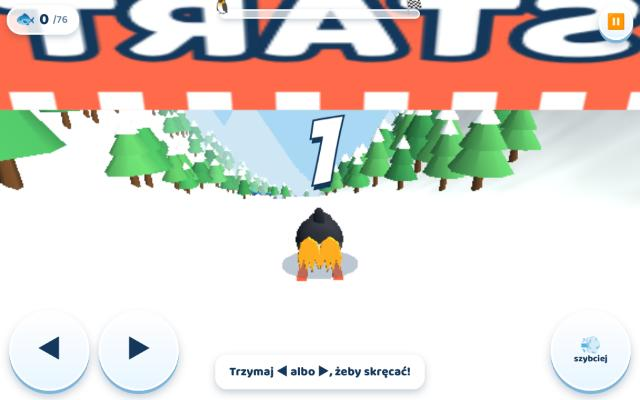
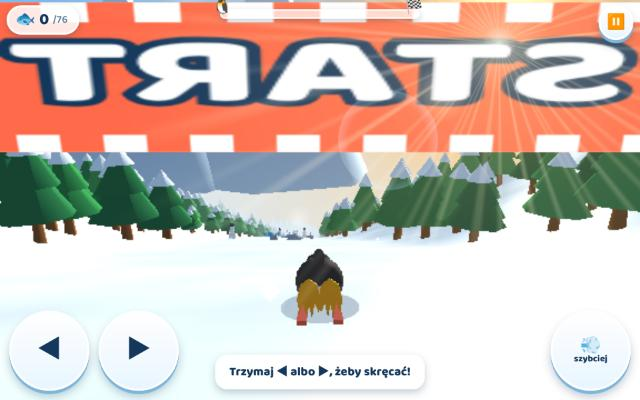
Narty: ładniejsza grafika — słońce, promienie, cienie, lód i migoczący śnieg
Niebo ze słońcem i chmurami (shader), ciepłe niskie światło z długimi cieniami, promienie i flary (nakładka CSS),
półprzezroczyste tafle lodu na trasie (przyspieszają jazdę), migoczący śnieg, puder za nartami, łagodniejsza dolina i góry w oddali.

Claude-Session: https://claude.ai/code/session_01Y3fw4xh2EHoS7fJoc59qhu

diff --git a/narty/game.js b/narty/game.js
@@ -15,15 +15,22 @@ const GL_NAME = (() => { try { const g = document.createElement('canvas').getCon
 const LITE = !Q.has('hq') && (Q.has('lite') || /swiftshader|llvmpipe|software/i.test(GL_NAME));
 const renderer = new T.WebGLRenderer({ canvas: $('c'), antialias: !LITE, powerPreference: 'high-performance' });
 renderer.setPixelRatio(LITE ? (IS_TEST ? 1 : .6) : Math.min(devicePixelRatio || 1, 1.75));
-const scene = new T.Scene(); scene.background = new T.Color(0xa9d8f5); scene.fog = new T.Fog(0xcfe6f5, 60, 240);
-const camera = new T.PerspectiveCamera(58, 1, .3, 700); scene.add(camera);
-scene.add(new T.HemisphereLight(0xe4f1ff, 0x8fa9cc, .62));
-const sunL = new T.DirectionalLight(0xfff0d0, 1.1); sunL.position.set(-40, 80, -30); scene.add(sunL);
-const resize = fitView(renderer, camera); addEventListener('resize', resize); resize();
-ZOO.cfg.cast = false;
-particlesInit(scene, LITE ? 260 : 700);
 const V3 = (x = 0, y = 0, z = 0) => new T.Vector3(x, y, z);
 const dummy = new T.Object3D();
+const SUN_EL = 9*PI/180, SUN_AZ = -24*PI/180, SUN_D = V3(Math.sin(SUN_AZ)*Math.cos(SUN_EL), Math.sin(SUN_EL), Math.cos(SUN_AZ)*Math.cos(SUN_EL));   // słońce nisko, z przodu po lewej
+const scene = new T.Scene(); scene.background = new T.Color(0xdbebf5); scene.fog = new T.Fog(0xdbebf5, 70, 270);
+const camera = new T.PerspectiveCamera(58, 1, .3, 760); scene.add(camera);
+scene.add(new T.HemisphereLight(0xa9d2ff, 0xe8f0f8, .72));                       // niebo chłodne, odbicie od śniegu jasne
+const sunL = new T.DirectionalLight(0xffe3b5, 1.35); scene.add(sunL, sunL.target);   // słońce ciepłe
+renderer.shadowMap.enabled = !LITE; renderer.shadowMap.type = T.PCFSoftShadowMap; sunL.castShadow = !LITE;
+Object.assign(sunL.shadow.camera, { left: -38, right: 38, top: 38, bottom: -38, near: 1, far: 260 }); sunL.shadow.mapSize.set(2048, 2048); sunL.shadow.bias = -.0007; sunL.shadow.normalBias = .12;
+const dome = skyDome(SUN_D, 600); scene.add(dome);
+iceInit(skyEnv(renderer, SUN_D)); sunFxInit();
+const uScale = { value: 300 };                                                   // skala punktów (połowa wysokości bufora)
+const fitCam = fitView(renderer, camera), resize = () => { fitCam(); uScale.value = innerHeight*renderer.getPixelRatio()*.5; }; addEventListener('resize', resize); resize();
+ZOO.cfg.cast = !LITE;
+particlesInit(scene, LITE ? 260 : 700);
+const powder = powderInit(scene, LITE ? 50 : 150, uScale);
 
 /* =====================================================================
    STAN
@@ -50,7 +57,7 @@ const shadow = new T.Mesh(new T.CircleGeometry(1, 18).rotateX(-PI/2), new T.Mesh
 /* =====================================================================
    ŚWIAT: teren, drzewa, kamienie, bałwany, skocznie, rybki, łuki, góry
    ===================================================================== */
-let WG = null, fishB = null, fishT = null, snowmen = [], debris = [], mCount = 0;
+let glit = null, WG = null, fishB = null, fishT = null, snowmen = [], debris = [], mCount = 0;
 const mTrunk = lam(0x7a4e2c), mLeaf = lam(0xffffff), mSnowW = lam(0xf4fbff), mRock = lam(0x8d9bb0, { flatShading: true });
 const TREE_COL = [0x2f7d46, 0x3a8f4f, 0x2a6e44, 0x4a9a55].map(c => new T.Color(c));
 const GEO = {
@@ -60,21 +67,21 @@ const GEO = {
 };
 
 function terrainMesh() {
-  const s0 = -40, s1 = CRS.L + 90, st = COURSE.STEP, nr = Math.round((s1 - s0)/st) + 1, nc = Math.round(COURSE.HALF*2/st) + 1;
+  const s0 = -40, s1 = CRS.L + 140, st = COURSE.STEP, nr = Math.round((s1 - s0)/st) + 1, nc = Math.round(COURSE.HALF*2/st) + 1;
   const pos = new Float32Array(nr*nc*3), col = new Float32Array(nr*nc*3), idx = [];
   for (let i = 0; i < nr; i++) { const s = s0 + i*st, cx = centerX(s);
     for (let j = 0; j < nc; j++) { const dx = -COURSE.HALF + j*st, x = cx + dx, k = (i*nc + j)*3, e = Math.max(0, Math.abs(dx) - COURSE.W);
       pos[k] = x; pos[k + 1] = terrainY(s, x); pos[k + 2] = s;
-      const n = .5 + .5*Math.sin(s*.9 + x*.7)*Math.sin(s*.37 - x*.5), c = .93 + .07*n - Math.min(.1, e*.006);
-      col[k] = c*.95; col[k + 1] = c*.98; col[k + 2] = c; } }
+      const n = .5 + .5*Math.sin(s*.9 + x*.7)*Math.sin(s*.37 - x*.5), c = .92 + .08*n - Math.min(.07, e*.004), ice = Math.abs(dx) < COURSE.W ? 0 : Math.min(1, e*.1);
+      col[k] = c*(.97 - ice*.05); col[k + 1] = c*(.985 - ice*.02); col[k + 2] = c*(1 + ice*.0); } }
   for (let i = 0; i < nr - 1; i++) for (let j = 0; j < nc - 1; j++) { const a = i*nc + j, b = a + 1, c = a + nc, d = c + 1; idx.push(a, c, b, b, c, d); }
   const g = new T.BufferGeometry(); g.setAttribute('position', new T.BufferAttribute(pos, 3)); g.setAttribute('color', new T.BufferAttribute(col, 3)); g.setIndex(idx); g.computeVertexNormals();
-  return new T.Mesh(g, new T.MeshLambertMaterial({ vertexColors: true }));
+  const m = new T.Mesh(g, new T.MeshPhongMaterial({ vertexColors: true, specular: 0x6a6252, shininess: 24 })); m.receiveShadow = true; return m;
 }
 function instanced(geo, mat, list, fn) {
   const m = new T.InstancedMesh(geo, mat, Math.max(1, list.length));
   list.forEach((o, i) => { fn(dummy, o, i, m); dummy.updateMatrix(); m.setMatrixAt(i, dummy.matrix); });
-  m.count = list.length; m.instanceMatrix.needsUpdate = true; m.frustumCulled = false; return m;
+  m.count = list.length; m.instanceMatrix.needsUpdate = true; m.frustumCulled = false; m.castShadow = !LITE; m.receiveShadow = !LITE; return m;
 }
 function addTrees(g) {
   const list = CRS.trees.concat(CRS.obst.filter(o => o.k === 'tree'));
@@ -124,14 +131,19 @@ function buildWorld(sd) {
   for (const f of CRS.fish) f.y = groundY(f.s, f.x) + f.up;
   fishB = new T.InstancedMesh(GEO.fishB, lam(0x3aa8ff), CRS.fish.length); fishT = new T.InstancedMesh(GEO.fishT, lam(0xff9f1c), CRS.fish.length);
   fishB.frustumCulled = fishT.frustumCulled = false; WG.add(fishB, fishT);
-  // góry w oddali
-  const mt = [], L = CRS.L; for (let s = -60; s < L + 260; s += 85) for (const k of [-1, 1]) mt.push({ s, x: centerX(Math.min(s, L)) + k*(115 + rr(0, 40)), sc: rr(.8, 1.4), a: 0 });
-  for (let x = -160; x <= 160; x += 80) mt.push({ s: L + 300, x: centerX(L) + x, sc: 1.5, a: 0 });
-  WG.add(instanced(new T.ConeGeometry(70, 110, 7).translate(0, 55, 0), lam(0xd5e5f3, { flatShading: true }), mt, (d, o) => { d.position.set(o.x, baseAt(Math.min(o.s, L)) + 8, o.s); d.rotation.set(0, o.sc*3, 0); d.scale.set(o.sc, o.sc, o.sc); }));
+  // lód i migotanie śniegu
+  for (const p of CRS.ice) WG.add(iceMesh(p));
+  glit = glitterPoints(LITE ? 700 : 2600, uScale); WG.add(glit);
   updFish(0); hud();
 }
+const FAR = new T.Group(); scene.add(FAR);
+{ const cols = [], g = new T.ConeGeometry(95, 170, 7, 3).translate(0, 85, 0), pa = g.attributes.position, fc = new T.Color(0xdbebf5), mid = new T.Color(0xaec4de), top = new T.Color(0xffffff);
+  for (let i = 0; i < pa.count; i++) { const h = pa.getY(i)/170, c = h < .3 ? fc.clone().lerp(mid, h/.3) : mid.clone().lerp(top, Math.min(1, (h - .3)/.22)); cols.push(c.r, c.g, c.b); }
+  g.setAttribute('color', new T.Float32BufferAttribute(cols, 3));
+  const m = new T.MeshLambertMaterial({ vertexColors: true, flatShading: true, fog: false });
+  [-165, -135, -104, -78, 7, 26, 47, 70, 94, 118, 145, 172].forEach((az, i) => { const a = az*PI/180, h = 1 + ((i*37) % 60)/100, mt = new T.Mesh(g, m); mt.position.set(Math.sin(a)*400, 0, Math.cos(a)*400); mt.scale.set(1.1, h, 1.1); mt.rotation.y = i; FAR.add(mt); }); }
 function updFish(t) {
-  CRS.fish.forEach((f, i) => { const k = f.got ? 0 : 1; dummy.position.set(f.x, f.y + Math.sin(t*3 + i)*.12, f.s); dummy.rotation.set(0, t*1.8 + i, Math.sin(t*2 + i)*.15); dummy.scale.setScalar(k*1.5); dummy.updateMatrix(); fishB.setMatrixAt(i, dummy.matrix); fishT.setMatrixAt(i, dummy.matrix); });
+  CRS.fish.forEach((f, i) => { const k = f.got ? 0 : 1; dummy.position.set(f.x, f.y + Math.sin(t*3 + i)*.12, f.s); dummy.rotation.set(0, t*1.8 + i, Math.sin(t*2 + i)*.15); dummy.scale.setScalar(k*1.25); dummy.updateMatrix(); fishB.setMatrixAt(i, dummy.matrix); fishT.setMatrixAt(i, dummy.matrix); });
   fishB.instanceMatrix.needsUpdate = fishT.instanceMatrix.needsUpdate = true;
 }
 
@@ -187,7 +199,8 @@ function resetPlayer() {
   Object.assign(P, { s: 4, x: centerX(4), psi: 0, v: 0, vy: 0, air: false, airT: 0, trick: false, flip: 0, rampT: 0, hit: 0, inv: 0, pitch: 0, roll: 0, camYaw: 0 });
   P.y = groundY(P.s, P.x); S.got = 0; S.hits = 0; S.tricks = 0; S.runT = 0; S.finT = 0; poseRig(0); S.camSnap = true;
 }
-function puff(x, y, z, n, sp, r = 1, g = 1, b = 1) { for (let i = 0; i < n; i++) emit(x + rr(-.4, .4), y + .2, z + rr(-.4, .4), rr(-sp, sp), rr(sp*.4, sp*1.2), rr(-sp, sp), rr(.4, .9), r, g, b, 7); }
+function puff(x, y, z, n, sp, r = 1, g = 1, b = 1) { for (let i = 0; i < n; i++) emit(x + rr(-.4, .4), y + .2, z + rr(-.4, .4), rr(-sp, sp), rr(sp*.4, sp*1.2), rr(-sp, sp), rr(.4, .9), r, g, b, 7);
+  if (r + g + b > 2.5) for (let i = 0; i < Math.ceil(n/3); i++) powder.emit(x + rr(-.5, .5), y + .3, z + rr(-.5, .5), rr(-sp, sp)*.6, rr(.4, sp*.5), rr(-sp, sp)*.6, rr(.8, 1.4), rr(1.4, 2.6)); }
 function hitObst(o) {
   if (o.k === 'snowman') { o.hit = true; S.hits++; P.v *= .85; P.inv = .35; snd.smash(); puff(o.x, groundY(o.s, o.x) + 1.4, o.s, 24, 3.4);
     for (const m of o.g.children.slice()) { scene.attach(m); debris.push({ m, vx: (m.position.x - P.x)*1.2 + rr(-1.5, 1.5), vy: rr(3, 7), vz: rr(2, 6) + P.v*.25, spin: rr(-6, 6), t: 2.2 }); }
@@ -203,13 +216,16 @@ function physics(dt) {
   const inp = count ? { u: 0, sy: 0 } : fin ? { u: 0, sy: -1 } : readInput();
   P.hit = Math.max(0, P.hit - dt); P.inv = Math.max(0, P.inv - dt); P.rampT = Math.max(0, P.rampT - dt);
   let vt = inp.sy >= 0 ? lerp(BASE_V, MAX_V, inp.sy) : lerp(BASE_V, MIN_V, -inp.sy); if (count) vt = 0; if (fin) vt = 0;
+  const onIce = !P.air && !count && iceAt(P.s, P.x); if (onIce) vt += 5;
+  if (onIce && !P.onIce) { tone(1500, .22, 'sine', .14, 2400); burst(5000, .25, .12, 0, 2); if (!S.iceSeen) { S.iceSeen = true; toast('Lód! Ale się ślizga!', 2400); lektor('Lód!'); } }
+  P.onIce = onIce;
   if (P.air) vt = Math.max(vt, P.v*.97);
   P.v += (vt - P.v)*Math.min(1, dt*(count ? 9 : vt > P.v ? .9 : fin ? 1.1 : 2.2));
   if (count) P.v = 0;
   if (run && P.v < 5) P.v = 5;
   const cx = centerX(P.s), dx = P.x - cx; let psiT = inp.u*MAX_PSI*(P.hit > 0 ? .3 : 1);
   if (Math.abs(dx) > 9 && !fin) psiT -= Math.sign(dx)*(Math.abs(dx) - 9)*.12;
-  P.psi += (psiT - P.psi)*Math.min(1, dt*(P.air ? 2 : 5.5));
+  P.psi += (psiT - P.psi)*Math.min(1, dt*(P.air ? 2 : onIce ? 2.6 : 5.5));
   P.x += P.v*Math.sin(P.psi)*dt; P.s += P.v*Math.cos(P.psi)*dt;
   const ex = P.x - centerX(P.s); if (Math.abs(ex) > 14.5) { P.x = centerX(P.s) + Math.sign(ex)*14.5; P.psi -= Math.sign(ex)*.05; P.v *= .995; }
   if (dt > 1e-4) {
@@ -227,8 +243,10 @@ function physics(dt) {
   if (run || fin) for (const f of CRS.fish) { if (f.got || Math.abs(f.s - P.s) > 2) continue; if (Math.hypot(f.s - P.s, f.x - P.x) < 1.7 && Math.abs(f.y - (P.y + .5)) < 1.9) takeFish(f); }
   if (run) { S.runT += dt; if (P.s >= CRS.goals.finish) finishRun(); }
   if (fin) { S.finT += dt; if (P.v < .6 || S.finT > 4.5) endRun(); }
-  // ślad za pingwinem
-  if (!P.air && P.v > 3 && (run || fin)) { const n = Math.min(3, Math.ceil(P.v*dt*1.4 + Math.random())); for (let i = 0; i < n; i++) emit(P.x - Math.sin(P.psi)*1.2 + rr(-.5, .5), P.y + .15, P.s - Math.cos(P.psi)*1.2, rr(-1.2, 1.2) - Math.sin(P.psi)*P.v*.12, rr(.8, 2.4), rr(-1, 1) - Math.cos(P.psi)*P.v*.12, rr(.35, .7), 1, 1, 1, 6); }
+  // puder za nartami (duże, miękkie, półprzezroczyste kłęby) + drobne iskierki; na lodzie niebieskie iskry
+  if (!P.air && P.v > 3 && (run || fin)) { const k = P.v/MAX_V, n = Math.min(2, Math.ceil(P.v*dt*.5 + Math.random()*.6)), bx = -Math.sin(P.psi), bz = -Math.cos(P.psi);
+    for (let i = 0; i < n; i++) powder.emit(P.x + bx*1.1 + rr(-.5, .5), P.y + .2, P.s + bz*1.1, rr(-1.6, 1.6) + bx*P.v*.1, rr(.4, 1.4)*(.6 + k), rr(-1, 1) + bz*P.v*.1, rr(.7, 1.3), rr(1.1, 2.2)*(.7 + k*.6));
+    if (onIce) for (let i = 0; i < 2; i++) emit(P.x + rr(-.6, .6), P.y + .2, P.s + rr(-.6, .6), rr(-2, 2), rr(1, 3), rr(-2, 2), rr(.4, .8), .7, .9, 1, 5); }
 }
 function poseRig(dt) {
   const f = V3(Math.sin(P.psi), 0, Math.cos(P.psi)), r = V3(Math.cos(P.psi), 0, -Math.sin(P.psi)), d = 1.1;
@@ -253,13 +271,13 @@ function updDebris(dt) { for (let i = debris.length - 1; i >= 0; i--) { const d 
    KAMERA
    ===================================================================== */
 function updCam(dt) {
-  if (S.mode === 'menu') { const a = S.t*.3, tx = P.x + Math.sin(a)*3.4 + 1.2, ty = P.y + 1.6, tz = P.s + 6.6 + Math.cos(a)*.6; camera.position.set(tx, Math.max(ty, terrainY(tz, tx) + 1), tz); camera.lookAt(P.x, P.y + .8, P.s); camera.fov = 52; camera.updateProjectionMatrix(); return; }
+  if (S.mode === 'menu') { const a = S.t*.25, tx = P.x + 5.5 + Math.sin(a)*2, tz = P.s + 11 + Math.cos(a)*1.2, ty = P.y + 2.4; camera.position.set(tx, Math.max(ty, terrainY(tz, tx) + 1.6), tz); camera.lookAt(P.x - 1.2, P.y + 1.6, P.s); camera.fov = 52; camera.updateProjectionMatrix(); return; }
   P.camYaw += (P.psi*.5 - P.camYaw)*Math.min(1, dt*2.5);
   const fx = Math.sin(P.camYaw), fz = Math.cos(P.camYaw), back = 6.6, tx = P.x - fx*back, tz = P.s - fz*back, ty = P.y + 2.9;
   const k = S.camSnap ? 1 : 1 - Math.exp(-dt*5), ky = S.camSnap ? 1 : 1 - Math.exp(-dt*3);
   camera.position.x += (tx - camera.position.x)*k; camera.position.z += (tz - camera.position.z)*k; camera.position.y += (ty - camera.position.y)*ky;
   camera.position.y = Math.max(camera.position.y, terrainY(camera.position.z, camera.position.x) + 1.7);
-  const lx = P.x + fx*9, lz = P.s + fz*9, ly = groundY(lz, lx) + 1.2;
+  const lx = P.x + fx*10, lz = P.s + fz*10, ly = (groundY(lz, lx) + P.y)*.5 + 1.5;
   camera.lookAt(lx, ly, lz); S.camSnap = false;
   const fov = 56 + (P.v/MAX_V)*10 + (P.air ? 3 : 0); if (Math.abs(camera.fov - fov) > .05) { camera.fov += (fov - camera.fov)*Math.min(1, dt*3); camera.updateProjectionMatrix(); }
 }
@@ -273,7 +291,9 @@ function update(dt) {
     if (n !== S.cdN) { S.cdN = n; if (n > 0) { showBig(String(n)); snd.tick(false); } else { showBig('Jazda!'); snd.tick(true); lektor('Jazda!', { pilne: true }); } }
     if (S.cd <= .15) { S.mode = 'run'; tilt.cal = true; } }
   if (S.mode === 'count' || S.mode === 'run' || S.mode === 'finish') { physics(dt); updDebris(dt); }
-  poseRig(dt); updFish(S.t); updateParticles(dt); windUpd(); updCam(dt);
+  poseRig(dt); updFish(S.t); updateParticles(dt); powder.update(dt); windUpd(); updCam(dt);
+  dome.position.copy(camera.position); dome.material.uniforms.uTime.value = S.t; FAR.position.set(camera.position.x, camera.position.y - 62, camera.position.z); if (glit) glit.material.uniforms.uTime.value = S.t;
+  sunL.position.set(P.x + SUN_D.x*140, P.y + SUN_D.y*140, P.s + SUN_D.z*140); sunL.target.position.set(P.x, P.y, P.s); sunL.target.updateMatrixWorld(); sunFxUpdate(camera, SUN_D);
   const fr = clamp(P.s/CRS.goals.finish, 0, 1); $('progI').style.left = fr*100 + '%';
 }
 function finishRun() { S.mode = 'finish'; S.finT = 0; snd.fin(); showBig('Meta!'); lektor('Meta! Brawo!', { pilne: true }); for (let i = 0; i < 40; i++) emit(P.x + rr(-5, 5), P.y + rr(2, 6), P.s + rr(-2, 4), rr(-2, 2), rr(1, 4), rr(-2, 2), rr(1, 2), Math.random(), Math.random(), Math.random(), 2); }

diff --git a/narty/fx.js b/narty/fx.js
@@ -1,0 +1,108 @@
+'use strict';
+// Narty — efekty obrazu: niebo ze słońcem i chmurami (shader), przezroczysty lód na trasie, migoczący śnieg, pudrowy śnieg zza nart,
+// promienie słońca i flary (nakładka CSS #sunfx). Same funkcje (bez sceny przy ładowaniu); gra woła je z game.js.
+// wymaga: lib/3d/three.js (T, PI), lib/common/math.js (clamp), slope.js (groundY, CRS), lib/common/random.js (rr, rnd)
+
+/* ---------- niebo: gradient, słońce z poświatą, chmury ---------- */
+const SKY_VS = 'varying vec3 vDir; void main(){ vDir = position; gl_Position = projectionMatrix*modelViewMatrix*vec4(position, 1.0); }';
+const SKY_FS = `uniform vec3 uSun; uniform float uTime; varying vec3 vDir;
+float hash(vec2 p){ return fract(sin(dot(p, vec2(127.1, 311.7)))*43758.5453); }
+float noise(vec2 p){ vec2 i = floor(p), f = fract(p); f = f*f*(3.0 - 2.0*f);
+  return mix(mix(hash(i), hash(i + vec2(1.0, 0.0)), f.x), mix(hash(i + vec2(0.0, 1.0)), hash(i + vec2(1.0, 1.0)), f.x), f.y); }
+float fbm(vec2 p){ float a = 0.5, s = 0.0; for (int i = 0; i < 4; i++) { s += a*noise(p); p *= 2.03; a *= 0.5; } return s; }
+void main(){
+  vec3 d = normalize(vDir); float h = d.y;
+  vec3 hor = vec3(0.86, 0.92, 0.96), mid = vec3(0.50, 0.73, 0.94), top = vec3(0.20, 0.45, 0.82);
+  vec3 c = mix(hor, mid, smoothstep(0.0, 0.22, h)); c = mix(c, top, smoothstep(0.15, 0.85, h)); if (h < 0.0) c = hor;
+  float sd = max(dot(d, uSun), 0.0);
+  c = mix(c, vec3(1.0, 0.74, 0.42), clamp(pow(sd, 5.0)*0.55 + pow(sd, 30.0)*0.5, 0.0, 0.85)); c += vec3(1.0, 0.8, 0.5)*pow(sd, 220.0)*0.9;
+  if (h > 0.02) { vec2 p = d.xz/(h + 0.28)*1.7 + vec2(uTime*0.012, 0.0);
+    float cl = smoothstep(0.52, 0.86, fbm(p))*smoothstep(0.02, 0.24, h);
+    vec3 cc = mix(vec3(0.97, 0.98, 1.0), vec3(1.0, 0.9, 0.74), pow(sd, 5.0)); c = mix(c, cc, cl*0.72); }
+  c = mix(c, vec3(1.0, 0.98, 0.92), smoothstep(0.99962, 0.99986, sd));
+  gl_FragColor = vec4(min(c, vec3(1.0)), 1.0);   // bez wartości > 1 (mapa środowiska jest LDR)
+}`;
+function skyDome(sunDir, radius) {
+  const mat = new T.ShaderMaterial({ side: T.BackSide, depthWrite: false, fog: false, uniforms: { uSun: { value: sunDir }, uTime: { value: 0 } }, vertexShader: SKY_VS, fragmentShader: SKY_FS });
+  const m = new T.Mesh(new T.SphereGeometry(radius, 32, 18), mat); m.renderOrder = -10; m.frustumCulled = false; return m;
+}
+// odbicia nieba na lodzie: jednorazowy rzut kopuły na sześcian (zwykła mapa odbić — bez PMREM, działa na każdym GPU)
+function skyEnv(renderer, sunDir) {
+  const sc = new T.Scene(), mat = new T.ShaderMaterial({ side: T.BackSide, depthWrite: false, uniforms: { uSun: { value: sunDir }, uTime: { value: 8 } }, vertexShader: SKY_VS, fragmentShader: SKY_FS });
+  sc.add(new T.Mesh(new T.SphereGeometry(50, 32, 18), mat));
+  const rt = new T.WebGLCubeRenderTarget(128), cc = new T.CubeCamera(.1, 100, rt); cc.update(renderer, sc); return rt.texture;
+}
+
+/* ---------- lód: półprzezroczysta tafla z pęknięciami i połyskiem (MeshStandard + mapa nieba) ---------- */
+let iceTexC = null;
+function iceTex() {
+  if (iceTexC) return iceTexC;
+  const c = document.createElement('canvas'); c.width = c.height = 256; const g = c.getContext('2d'), R = Math.random;
+  g.beginPath(); for (let k = 0; k <= 56; k++) { const a = k/56*6.2832, r = 108 + 7*Math.sin(a*3 + 1) + 5*Math.sin(a*5 + 2) + R()*3; k ? g.lineTo(128 + Math.cos(a)*r, 128 + Math.sin(a)*r) : g.moveTo(128 + Math.cos(a)*r, 128 + Math.sin(a)*r); } g.closePath();
+  const gr = g.createRadialGradient(104, 100, 8, 128, 128, 116); gr.addColorStop(0, 'rgba(170,228,255,.8)'); gr.addColorStop(.5, 'rgba(105,185,245,.86)'); gr.addColorStop(.88, 'rgba(60,140,225,.92)'); gr.addColorStop(1, 'rgba(225,245,255,.96)');
+  g.fillStyle = gr; g.fill(); g.save(); g.clip();
+  for (let i = 0; i < 16; i++) { const x = R()*256, y = R()*256, a = R()*6.28, l = 40 + R()*90; g.strokeStyle = 'rgba(25,95,175,.45)'; g.lineWidth = 3 + R()*4; g.beginPath(); g.moveTo(x, y); g.lineTo(x + Math.cos(a)*l, y + Math.sin(a)*l); g.stroke(); }
+  for (let i = 0; i < 34; i++) { let x = R()*256, y = R()*256, a = R()*6.28; g.strokeStyle = `rgba(255,255,255,${.5 + R()*.45})`; g.lineWidth = 1 + R()*2; g.beginPath(); g.moveTo(x, y);
+    for (let k = 0; k < 4; k++) { a += R()*1.2 - .6; const l = 12 + R()*34; x += Math.cos(a)*l; y += Math.sin(a)*l; g.lineTo(x, y); } g.stroke(); }
+  for (let i = 0; i < 70; i++) { g.fillStyle = `rgba(255,255,255,${.25 + R()*.6})`; g.beginPath(); g.arc(R()*256, R()*256, .8 + R()*2.8, 0, 6.28); g.fill(); }
+  g.restore(); g.lineWidth = 3; g.strokeStyle = 'rgba(255,255,255,.7)'; g.stroke();
+  const t = new T.CanvasTexture(c); t.anisotropy = 4; return iceTexC = t;
+}
+function iceMesh(p) {
+  const NI = 12, NJ = 10, k = 1.18, pos = [], uv = [], idx = [];
+  for (let i = 0; i <= NI; i++) for (let j = 0; j <= NJ; j++) { const s = p.s + (i/NI - .5)*2*p.rz*k, x = p.x + (j/NJ - .5)*2*p.rx*k; pos.push(x, groundY(s, x) + .07, s); uv.push(j/NJ, i/NI); }
+  for (let i = 0; i < NI; i++) for (let j = 0; j < NJ; j++) { const a = i*(NJ + 1) + j, b = a + 1, c = a + NJ + 1, d = c + 1; idx.push(a, c, b, b, c, d); }
+  const g = new T.BufferGeometry(); g.setAttribute('position', new T.Float32BufferAttribute(pos, 3)); g.setAttribute('uv', new T.Float32BufferAttribute(uv, 2)); g.setIndex(idx); g.computeVertexNormals();
+  const m = new T.Mesh(g, ICE_MAT); m.renderOrder = 2; return m;
+}
+const ICE_MAT = new T.MeshPhongMaterial({ color: 0xbcd8f2, emissive: 0x0c3a6e, specular: 0xffffff, shininess: 160, reflectivity: .35, combine: T.MixOperation, transparent: true, opacity: 1, depthWrite: false, polygonOffset: true, polygonOffsetFactor: -3, polygonOffsetUnits: -3 });
+function iceInit(env) { ICE_MAT.map = iceTex(); ICE_MAT.envMap = env; ICE_MAT.needsUpdate = true; }
+
+/* ---------- migoczący śnieg: gwiazdki rozsypane nad trasą, każda błyska w swoim rytmie (additive) ---------- */
+function glitterPoints(n, uScale) {
+  const pos = new Float32Array(n*3), ph = new Float32Array(n), sz = new Float32Array(n), L = CRS.L;
+  for (let i = 0; i < n; i++) { const s = rr(-10, L + 90), x = centerX(s) + rr(-16, 16); pos[i*3] = x; pos[i*3 + 1] = groundY(s, x) + .08 + rnd()*.18; pos[i*3 + 2] = s; ph[i] = rnd(); sz[i] = .35 + rnd()*.55; }
+  const g = new T.BufferGeometry(); g.setAttribute('position', new T.BufferAttribute(pos, 3)); g.setAttribute('aPh', new T.BufferAttribute(ph, 1)); g.setAttribute('aSz', new T.BufferAttribute(sz, 1));
+  const mat = new T.ShaderMaterial({ transparent: true, depthWrite: false, blending: T.AdditiveBlending, uniforms: { uTime: { value: 0 }, uScale: uScale },
+    vertexShader: `attribute float aPh; attribute float aSz; uniform float uTime; uniform float uScale; varying float vA;
+      void main(){ vec4 mv = modelViewMatrix*vec4(position, 1.0); gl_Position = projectionMatrix*mv; float tw = pow(0.5 + 0.5*sin(uTime*(2.0 + aPh*3.0) + aPh*40.0), 8.0);
+        gl_PointSize = aSz*(0.25 + tw)*uScale/(-mv.z); vA = tw*(1.0 - smoothstep(60.0, 170.0, -mv.z)); }`,
+    fragmentShader: `varying float vA; void main(){ vec2 c = gl_PointCoord - 0.5; float d = length(c)*2.0; float core = pow(max(1.0 - d, 0.0), 2.5);
+      float cross = max((1.0 - smoothstep(0.0, 0.09, abs(c.x)))*(1.0 - abs(c.y)*2.0), (1.0 - smoothstep(0.0, 0.09, abs(c.y)))*(1.0 - abs(c.x)*2.0));
+      gl_FragColor = vec4(vec3(1.0, 0.96, 0.85)*(core + cross*0.8)*vA, 1.0); }` });
+  const p = new T.Points(g, mat); p.frustumCulled = false; return p;
+}
+
+/* ---------- puder: duże miękkie półprzezroczyste kłęby śniegu zza nart ---------- */
+function powderInit(scene, n, uScale) {
+  const pos = new Float32Array(n*3), vel = new Float32Array(n*3), age = new Float32Array(n).fill(9), life = new Float32Array(n).fill(1), s0 = new Float32Array(n), sz = new Float32Array(n), al = new Float32Array(n);
+  const g = new T.BufferGeometry(); g.setAttribute('position', new T.BufferAttribute(pos, 3)); g.setAttribute('aSize', new T.BufferAttribute(sz, 1)); g.setAttribute('aAlpha', new T.BufferAttribute(al, 1));
+  const mat = new T.ShaderMaterial({ transparent: true, depthWrite: false, uniforms: { uScale },
+    vertexShader: 'attribute float aSize; attribute float aAlpha; uniform float uScale; varying float vA; void main(){ vec4 mv = modelViewMatrix*vec4(position, 1.0); gl_Position = projectionMatrix*mv; gl_PointSize = aSize*uScale/(-mv.z); vA = aAlpha; }',
+    fragmentShader: 'varying float vA; void main(){ float d = length(gl_PointCoord - 0.5)*2.0; float a = smoothstep(1.0, 0.0, d); a *= a; gl_FragColor = vec4(vec3(0.97, 0.985, 1.0), a*vA); }' });
+  const pts = new T.Points(g, mat); pts.frustumCulled = false; pts.renderOrder = 3; scene.add(pts); let nx = 0;
+  return { pts,
+    emit(x, y, z, vx, vy, vz, lf, size) { const i = nx; nx = (nx + 1)%n; pos[i*3] = x; pos[i*3 + 1] = y; pos[i*3 + 2] = z; vel[i*3] = vx; vel[i*3 + 1] = vy; vel[i*3 + 2] = vz; age[i] = 0; life[i] = lf; s0[i] = size; },
+    update(dt) { for (let i = 0; i < n; i++) { if (age[i] >= life[i]) { al[i] = 0; continue; } age[i] += dt; const k = age[i]/life[i], d = Math.pow(.93, dt*60);
+      vel[i*3] *= d; vel[i*3 + 1] = vel[i*3 + 1]*d + 1.2*dt; vel[i*3 + 2] *= d; pos[i*3] += vel[i*3]*dt; pos[i*3 + 1] += vel[i*3 + 1]*dt; pos[i*3 + 2] += vel[i*3 + 2]*dt;
+      sz[i] = s0[i]*(.5 + k*1.8); al[i] = .42*(1 - k)*Math.min(1, k*8); }
+      g.attributes.position.needsUpdate = g.attributes.aSize.needsUpdate = g.attributes.aAlpha.needsUpdate = true; } };
+}
+
+/* ---------- promienie słońca i flary: nakładka CSS (mix-blend-mode: screen) ustawiana na rzucie słońca na ekran ---------- */
+const SUNFX = { el: null, glow: null, rays: null, fl: [], v: null, f: null };
+function sunFxInit() {
+  const el = SUNFX.el = document.getElementById('sunfx'); if (!el) return; SUNFX.glow = el.querySelector('#sGlow'); SUNFX.rays = el.querySelector('#sRays'); SUNFX.fl = [...el.querySelectorAll('.fl')];
+  SUNFX.v = new T.Vector3(); SUNFX.f = new T.Vector3();
+}
+function sunFxUpdate(camera, sunDir) {
+  const e = SUNFX; if (!e.el) return; camera.getWorldDirection(e.f); const dp = e.f.dot(sunDir);
+  if (dp < .05) { e.el.style.opacity = 0; return; }
+  e.v.copy(camera.position).addScaledVector(sunDir, 900).project(camera);
+  const W = innerWidth, H = innerHeight, sx = (e.v.x*.5 + .5)*W, sy = (-e.v.y*.5 + .5)*H, k = clamp((dp - .3)/.45, 0, 1);
+  e.el.style.opacity = k.toFixed(3);
+  const at = (n, x, y) => { n.style.transform = `translate(${x.toFixed(1)}px,${y.toFixed(1)}px) translate(-50%,-50%)`; };
+  at(e.glow, sx, sy); at(e.rays, sx, sy);
+  const cx = W/2, cy = H/2;
+  e.fl.forEach((n, i) => { const t = [.32, .62, 1.12, 1.55][i]; at(n, sx + (cx - sx)*t, sy + (cy - sy)*t); });
+}

diff --git a/narty/slope.js b/narty/slope.js
@@ -19,9 +19,9 @@ function baseAt(s) {
   if (s >= n) return b[n];
   const i = s | 0, f = s - i; return b[i] + (b[i + 1] - b[i])*f;
 }
-const bankAt = dx => { const e = Math.max(0, Math.abs(dx) - COURSE.W); return .45*e + .012*e*e; };
+const bankAt = dx => { const e = Math.max(0, Math.abs(dx) - COURSE.W); return .22*e + .0045*e*e; };   // łagodna dolina: słońce widać nad grzbietem
 const bumpAt = (s, x) => .16*Math.sin(s*.31 + x*.2)*Math.sin(s*.13 - x*.17) + .3*Math.sin(s/17 + x/9)*ss(30, 90, s)*(1 - ss(COURSE.L - 140, COURSE.L - 60, s));
-const terrainY = (s, x) => baseAt(s) + bumpAt(s, x) + bankAt(x - centerX(s));
+const terrainY = (s, x) => baseAt(s) + bumpAt(s, x) + bankAt(x - centerX(s)) + 20*ss(COURSE.L + 40, COURSE.L + 120, s);   // za metą dolina zamyka się wzgórzem
 function rampLift(s, x) {
   let h = 0;
   for (const r of CRS.ramps) {
@@ -32,12 +32,13 @@ function rampLift(s, x) {
   return h;
 }
 const groundY = (s, x) => terrainY(s, x) + rampLift(s, x);
+const iceAt = (s, x) => CRS.ice.some(p => ((x - p.x)/p.rx)**2 + ((s - p.s)/p.rz)**2 < 1);
 
 function courseBuild(sd) {
   seed = sd|0 || 1; const L = COURSE.L;
   const base = new Float32Array(L + 2); let y = 0; for (let i = 0; i <= L + 1; i++) { base[i] = y; y -= slopeAt(i); }
   const Y0 = 14 - base[L + 1]; for (let i = 0; i <= L + 1; i++) base[i] += Y0;
-  CRS = { L, base, ramps: [], obst: [], fish: [], trees: [], seed: sd };
+  CRS = { L, base, ramps: [], obst: [], fish: [], trees: [], ice: [], seed: sd };
   // skocznie: pierwsza wcześnie, potem co 150–200 m
   for (let s = 150; s < L - 200; s += rr(150, 200)) CRS.ramps.push({ s0: s, x: centerX(s) + rr(-5, 5), len: 5, wid: 4.4, h: 2.3 });
   const nearRamp = (s, x) => CRS.ramps.some(r => s > r.s0 - 10 && s < r.s0 + r.len + 14 && Math.abs(x - r.x) < 5.5);
@@ -51,6 +52,9 @@ function courseBuild(sd) {
       if (Math.abs(dx) > 9) break;
     }
   }
+  // lód: półprzezroczyste tafle na trasie — jazda po nich przyspiesza (i trochę ślizga)
+  for (let s = 95; s < L - 130; s += rr(75, 115)) { const x = centerX(s) + rr(-6, 6), rx = rr(2.8, 3.8), rz = rr(5, 7.5);
+    if (nearRamp(s, x)) continue; CRS.ice.push({ s, x, rx, rz }); }
   // rybki: szlaczki po zakosach, a nad skoczniami łuk w powietrzu
   const clash = (s, x) => CRS.obst.some(o => Math.hypot(o.s - s, o.x - x) < o.r + 1.5);
   for (let s0 = 75; s0 < L - 90; s0 += rr(55, 75)) {
@@ -63,7 +67,7 @@ function courseBuild(sd) {
   }
   for (const r of CRS.ramps) for (let i = 0; i < 4; i++) CRS.fish.push({ s: r.s0 + r.len + 4 + i*3.6, x: r.x, up: 2.6 + Math.sin((i + .5)/4*PI)*2, got: false });
   // drzewa tła: gęsto po bokach doliny
-  for (let s = -30; s < L + 80; s += 3.1) for (const side of [-1, 1]) {
+  for (let s = -30; s < L + 130; s += 3.1) for (const side of [-1, 1]) {
     const m = rnd() < .45 ? 2 : 1;
     for (let k = 0; k < m; k++) { const e = COURSE.W + 1.8 + rr(0, 1)**1.6*34, sc = rr(.7, 1.4) + e*.018; if (s > L - 70 && e < COURSE.W + 18 && s < L + 20) continue;
       CRS.trees.push({ s: s + rr(-1.5, 1.5), x: centerX(s) + side*e, sc, a: rr(0, TAU), c: rnd() }); }

diff --git a/narty/index.html b/narty/index.html
@@ -82,11 +82,28 @@ h1{font:400 clamp(2.6rem,12vmin,4rem)/.95 Bangers,var(--font);margin:0;letter-sp
   .foot{margin-top:6px}.stars{font-size:3rem}
 }
 @media (prefers-reduced-motion:reduce){#big.pop{animation-duration:.01s}}
+
+/* ---------- słońce: poświata, promienie, flary (rzut słońca ustawia fx.js) ---------- */
+#sunfx{position:fixed;inset:0;pointer-events:none;overflow:hidden;mix-blend-mode:screen;opacity:0;transition:opacity .3s}
+#sunfx>*{position:absolute;left:0;top:0;will-change:transform}
+#sGlow{width:130vmax;height:130vmax;background:radial-gradient(circle,rgba(255,246,215,.85) 0,rgba(255,224,160,.5) 3%,rgba(255,200,120,.3) 9%,rgba(255,196,120,.15) 26%,rgba(255,190,110,.07) 48%,rgba(255,190,110,0) 66%)}
+#sRays{width:170vmax;height:170vmax;-webkit-mask-image:radial-gradient(circle,#000 0,rgba(0,0,0,.7) 18%,transparent 56%);mask-image:radial-gradient(circle,#000 0,rgba(0,0,0,.7) 18%,transparent 56%)}
+#sRays i{position:absolute;inset:0;animation:spin 170s linear infinite}
+#sRays i:nth-child(1){background:repeating-conic-gradient(from 3deg,rgba(255,238,185,0) 0 3deg,rgba(255,240,195,.36) 4.3deg,rgba(255,238,185,0) 6deg 11deg,rgba(255,240,195,.24) 12.4deg,rgba(255,238,185,0) 14deg 19deg)}
+#sRays i:nth-child(2){background:repeating-conic-gradient(from 40deg,rgba(255,230,170,0) 0 5deg,rgba(255,232,175,.28) 6.5deg,rgba(255,230,170,0) 8deg 17deg);animation-direction:reverse;animation-duration:260s}
+@keyframes spin{to{transform:rotate(360deg)}}
+.fl{width:90px;height:90px;border-radius:50%}
+.fl:nth-of-type(3){background:radial-gradient(circle,rgba(255,215,160,.5),rgba(255,200,140,0) 70%)}
+.fl:nth-of-type(4){width:150px;height:150px;background:radial-gradient(circle,rgba(160,215,255,0) 55%,rgba(160,215,255,.28) 70%,rgba(160,215,255,0) 80%)}
+.fl:nth-of-type(5){width:44px;height:44px;background:radial-gradient(circle,rgba(255,235,190,.55),rgba(255,235,190,0) 70%)}
+.fl:nth-of-type(6){width:200px;height:200px;background:radial-gradient(circle,rgba(190,255,215,0) 60%,rgba(190,255,215,.16) 72%,rgba(190,255,215,0) 82%)}
+@media (prefers-reduced-motion:reduce){#sRays i{animation:none}}
 #err{position:fixed;inset:0;display:none;align-items:center;justify-content:center;padding:24px;text-align:center;font-size:1.2rem;background:var(--sky)}
 </style>
 </head>
 <body>
 <canvas id="c"></canvas>
+<div id="sunfx" aria-hidden="true"><div id="sGlow"></div><div id="sRays"><i></i><i></i></div><div class="fl"></div><div class="fl"></div><div class="fl"></div><div class="fl"></div></div>
 
 <div id="hud" hidden>
   <div class="stat" id="sFish"><span>🐟</span><span id="nFish">0</span><small id="tFish">/0</small></div>
@@ -151,6 +168,7 @@ h1{font:400 clamp(2.6rem,12vmin,4rem)/.95 Bangers,var(--font);margin:0;letter-sp
 <script src="../lib/audio/speech.js"></script>
 <script src="../models/animals.js"></script>
 <script src="slope.js"></script>
+<script src="fx.js"></script>
 <script src="game.js"></script>
 <script src="../lib/common/screen.js"></script>
 <script>obrotInit()</script>

diff --git a/README.md b/README.md
@@ -38,7 +38,7 @@ flowchart LR
   Rośliny brzydną gryzione, najedzone zwierzaki grubną i puszczają bąki. Bez przegranej: koniec dnia o zachodzie, 1–3 gwiazdki za kosz.
   Lektor + napis na dole. Dane dni: `ogrodek/day.js`. `?test` (szybkie testy, `tools/quick.mjs`), `?lite`, `?hq` (pełna grafika też w teście), `?el=45&fov=24&top=.22` (próby kamery), `?dzien=4`, `?wszystkie` (otwarte dni),
   `?zw=elephant,giraffe` — od razu te zwierzaki.
-- `narty/` — pingwin zjeżdża ze stoku na brzuchu i nartach (3D, tylko poziomo), **sterowanie żyroskopem** (`lib/input/tilt.js`: przechył w lewo / w prawo = skręt, do przodu = szybciej, do tyłu = wolniej; środek ustawia się przy starcie, guzik 🎯 ustawia go ponownie). Bez żyroskopu: guziki ◀ ▶ + 💨 albo strzałki / WASD. Trasa 1000 m z zakrętami, losowa przy każdym zjeździe (`narty/slope.js`: teren, przeszkody, rybki, skocznie; ziarno `?s=123`). Bez przegranej: drzewo / kamień przewraca pingwina i zwalnia, bałwan się rozpada, skocznia daje salto, rybki to wynik (1–3 gwiazdki, zapis w przeglądarce). Lektor + dźwięki syntezowane. `?test` (szybkie testy, `tools/quick.mjs`; `TEST.step(s, dt, bot)` z autopilotem), `?lite`, `?ctrl=buttons`.
+- `narty/` — pingwin zjeżdża ze stoku na brzuchu i nartach (3D, tylko poziomo), **sterowanie żyroskopem** (`lib/input/tilt.js`: przechył w lewo / w prawo = skręt, do przodu = szybciej, do tyłu = wolniej; środek ustawia się przy starcie, guzik 🎯 ustawia go ponownie). Bez żyroskopu: guziki ◀ ▶ + 💨 albo strzałki / WASD. Trasa 1000 m z zakrętami, losowa przy każdym zjeździe (`narty/slope.js`: teren, przeszkody, rybki, skocznie; ziarno `?s=123`). Bez przegranej: drzewo / kamień przewraca pingwina i zwalnia, bałwan się rozpada, skocznia daje salto, rybki to wynik (1–3 gwiazdki, zapis w przeglądarce). Grafika (`narty/fx.js`): niebo ze słońcem i chmurami (shader), ciepłe niskie słońce z długimi cieniami (cienie tylko bez `?lite`), promienie i flary (nakładka CSS `#sunfx`), półprzezroczyste tafle lodu na trasie (połysk z mapy nieba; jazda po lodzie przyspiesza i ślizga), migoczący śnieg i puder za nartami. Lektor + dźwięki syntezowane. `?test` (szybkie testy, `tools/quick.mjs`; `TEST.step(s, dt, bot)` z autopilotem), `?lite`, `?ctrl=buttons`.
 - `zle-owoce/` — gra 2D (canvas, bez three.js): `kreska.js` (silnik ręcznej kreski), `postacie.js` (owoce, części, przeciwnicy, tła), `game.js` (zapis, dźwięk, kreator, walka); z `lib/` tylko `common/dom.js`.
 - `kosmopatologia/`, `zoopatologia/` — gry 2D (canvas, pikselowa grafika) przeniesione z osobnych repo (stan z 2026-11-08: kosmopatologia `c5066df`, zoopatologia `7a5440b`; historia zostaje tam). `index.html`, `css/app.css`, `js/*.js` w kolejności z `index.html`; PWA: `manifest.json` + `sw.js` (offline). Nowy plik w `js/` → dopisz do `CORE` w `sw.js` i zmień `VERSION`.
 - `orig/` — oryginalne artefakty (tylko do odczytu); `tools/split.mjs` zrobił z nich pierwszy podział (jednorazowo).
